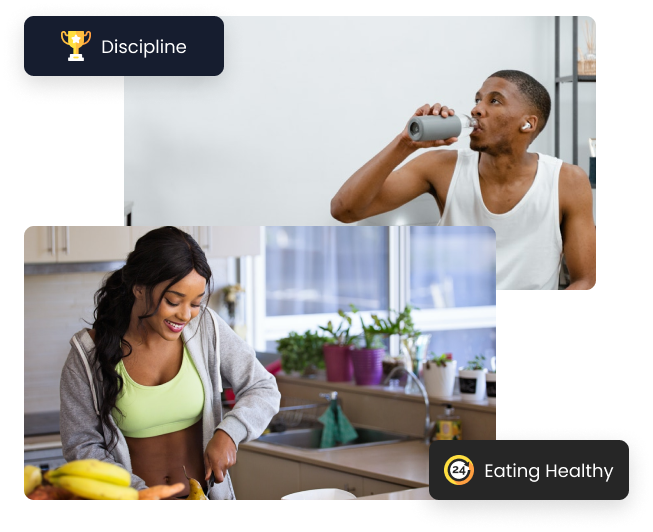
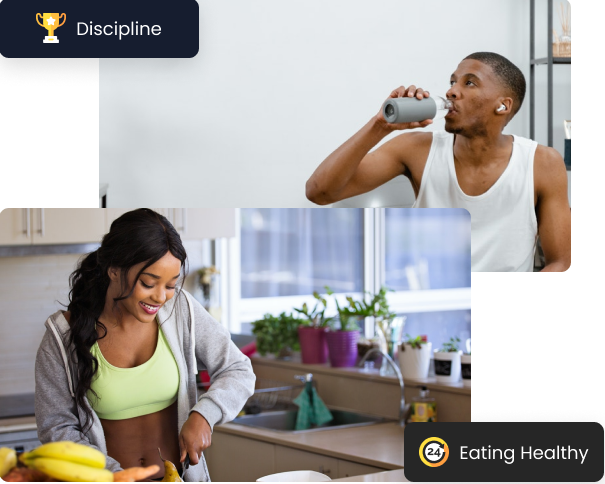
fixes

diff --git a/src/index.html b/src/index.html
@@ -53,56 +53,53 @@
         <h3 class="programs-workouts__subtitle">We Have a programs to help your workouts</h3>
         <div class="programs-workouts__row">
           <div class="programs-workouts__col">
-            <div class="card">
+            <article class="card">
               <img src="images/content/workout_1.png"  width="#" height="#" alt="#" class="card__img">
               <h2 class="card__title">Full Body Workout</h2>
               <h3 class="card__subtitle">By The Rock</h3>
               <p class="card__desc">
                 You can do it in your own home, all in under 30 mins? just need a mat and som
               </p>
-              <a href="#" class="card__link">Check out this program! <img src="images/content/Vector.svg" alt="#" class="card__link__vector">
+              <a href="#" class="card__link">Check out this program! <svg class="arrow"  width="18" height="14" viewBox="0 0 18 14" fill="none" xmlns="http://www.w3.org/2000/svg">
+                <path d="M-0.000213134 7.83332L14.6548 7.83332L10.2439 12.2442L11.4223 13.4225L17.8448 6.99999L11.4223 0.577485L10.2439 1.75582L14.6548 6.16665L-0.000212989 6.16665L-0.000213134 7.83332Z" fill="#3043A9"/>
+                </svg>
                 </a>
-            </div>
+              </article>
           </div>
           <div class="programs-workouts__col"> 
-            <div class="card">
+            <article class="card">
               <img src="images/content/workout_2.png"  width="#" height="#" alt="#" class="card__img">
               <h2 class="card__title">Bodyweight Workout</h2>
               <h3 class="card__subtitle">By Timi Tarner</h3>
               <p class="card__desc">
                 No need equipments, just your body, your soul, and your spirit. You can do
               </p>
-              <a href="#" class="card__link">Check out this program! <svg style="margin-left: 15px;" width="18" height="14" viewBox="0 0 18 14" fill="none" xmlns="http://www.w3.org/2000/svg">
+              <a href="#" class="card__link">Check out this program! <svg class="arrow"  width="18" height="14" viewBox="0 0 18 14" fill="none" xmlns="http://www.w3.org/2000/svg">
                 <path d="M-0.000213134 7.83332L14.6548 7.83332L10.2439 12.2442L11.4223 13.4225L17.8448 6.99999L11.4223 0.577485L10.2439 1.75582L14.6548 6.16665L-0.000212989 6.16665L-0.000213134 7.83332Z" fill="#3043A9"/>
                 </svg>
                 </a>
-            </div>
+              </article>
           </div>
           <div class="programs-workouts__col">
-            <div class="card">
+            <article class="card">
               <img src="images/content/workout_3.png"  width="#" height="#" alt="#" class="card__img">
               <h2 class="card__title">Dumbell Workout</h2>
               <h3 class="card__subtitle">By Frank Jane</h3>
               <p class="card__desc">
                 This is a workout you can do at home just using a set of barbells. The workout is 
               </p>
-              <a href="#" class="card__link">Check out this program! <svg width="18" height="14" viewBox="0 0 18 14" fill="none" xmlns="http://www.w3.org/2000/svg">
+              <a href="#" class="card__link">Check out this program! <svg class="arrow" width="18" height="14" viewBox="0 0 18 14" fill="none" xmlns="http://www.w3.org/2000/svg">
                 <path d="M-0.000213134 7.83332L14.6548 7.83332L10.2439 12.2442L11.4223 13.4225L17.8448 6.99999L11.4223 0.577485L10.2439 1.75582L14.6548 6.16665L-0.000212989 6.16665L-0.000213134 7.83332Z" fill="#3043A9"/>
                 </svg>
                 </a>
-            </div>
+              </article>
           </div>
         </div>
       </div>
     </section>
-    <section class="nutritions">
+    <section class="nutritions main__nutritions">
       <div class="container nutritions__container">
-        <div class="nutritions__images">
-          <img src="images/content/test__nutritions/nutritions-Discipline.png" alt="#" class="nutritions__images__picture-1">
-          <img src="images/content/test__nutritions/nutritions-boy.png" alt="#" class="nutritions__images__picture-2">
-          <img src="images/content/test__nutritions/nutritions-wome.png" alt="#" class="nutritions__images__picture-3">
-          <img src="images/content/test__nutritions/nutritions-eating-healthy.png" alt="#" class="nutritions__images__picture-4">
-        </div>
+        <div class="nutritions__images"></div>
         <div class="nutritions__content">
           <h2 class="title nutritions__title">Nutritions</h2>
           <h3 class="nutritions__subtitle">meal preparation for workout</h3>

diff --git a/src/scss/components/nutritions.scss b/src/scss/components/nutritions.scss
@@ -3,40 +3,20 @@
     &__container {
 
         display: flex;
-        justify-content: space-between;
+        align-items: center;
+       
     }
 
     &__content {
-        width: 42%;
-        transform: translateY(71px);
+        width: 40%;   
     }
 
     &__images {
-        width: 65%;
-
-        &__picture-1 {
-            position: relative;
-            z-index: 1;
-            bottom: 15px;
-            right: 23px;
-        }
-        
-        &__picture-2 {
-            position: relative;           
-            bottom: 111px;
-            left: 103px;
-        }
-        
-        &__picture-3 {
-            position: relative;   
-            bottom: 178px;               
-        }
-        
-        &__picture-4 {
-            position: relative;                         
-            left: 382px;
-            bottom: 258px;
-        }
+   
+        width: 60%;
+        min-height: 485px;
+        background-image: url('../images/content/Nutritions.png');
+        background-repeat: no-repeat;
     }
 
     &__title {
@@ -46,7 +26,7 @@
     &__subtitle {
         font-weight: $font-weight-semibold;
         font-size: $font-size-xl;
-        line-height: 1.7;
+        line-height: 1.5;
         text-transform: capitalize;
         color:$dark-blue;
         margin-bottom: 10px;

diff --git a/src/scss/components/programs-workouts.scss b/src/scss/components/programs-workouts.scss
@@ -3,7 +3,7 @@
     &__row {
         display: flex;
         flex-wrap: wrap;
-        margin: -15px;
+        margin: -15px 0;
     }
 
     &__col {
@@ -32,7 +32,6 @@
     .card {
 
         &__img {
-            transform: translateX(-23px);
             height: 100%;
         }
 
@@ -66,9 +65,9 @@
 
         &__link {
             color: $programs-color-link;
-            &__vector {
-                margin-left: 15px;
-            }
+        }
+        .arrow {
+            margin-left: 15px;
         }
     }
 }

diff --git a/src/scss/components/main.scss b/src/scss/components/main.scss
@@ -5,7 +5,10 @@
     }
 
     &__programs-workouts {
-        margin-bottom: 238px;
-        
+        margin-bottom: 138px;     
+    }
+
+    &__nutritions {
+        margin-bottom: 110px;
     }
 }

diff --git a/src/scss/base/_base.scss b/src/scss/base/_base.scss
@@ -11,6 +11,10 @@ h1, h2, h3, h4, h5, p {
     margin: 0;
 }
 
+img {
+    max-width: 100%;
+}
+
 ul,  
 ol {
     list-style-type: none;
